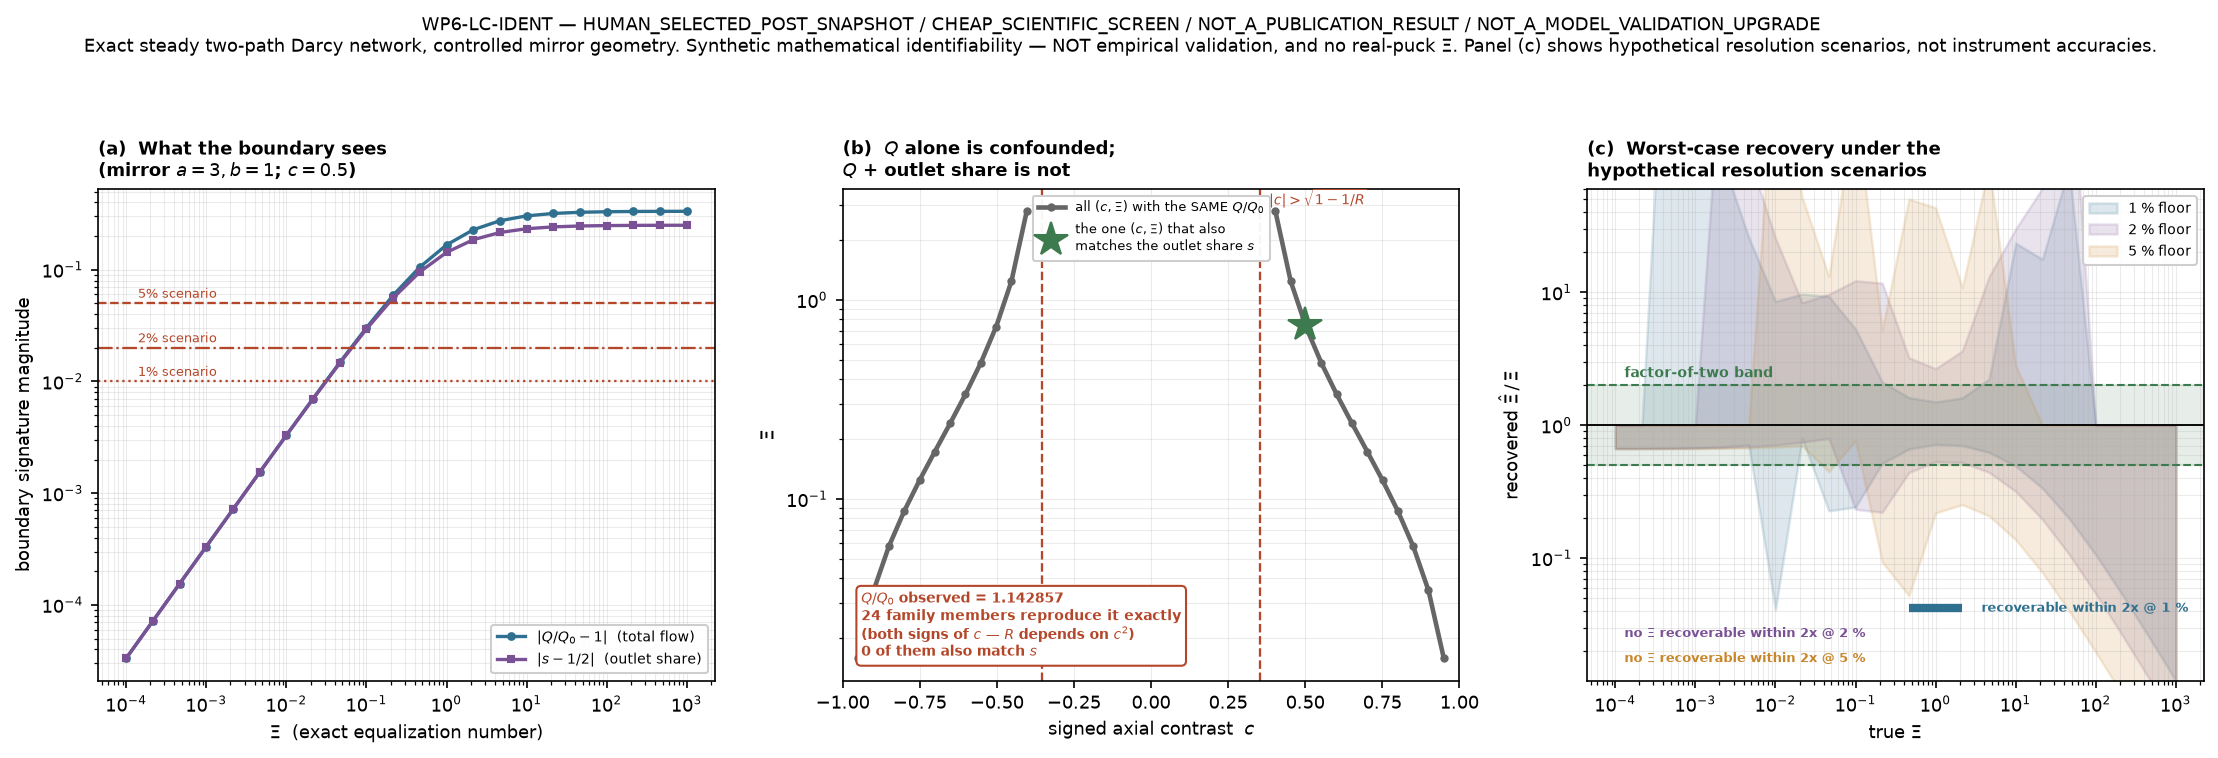
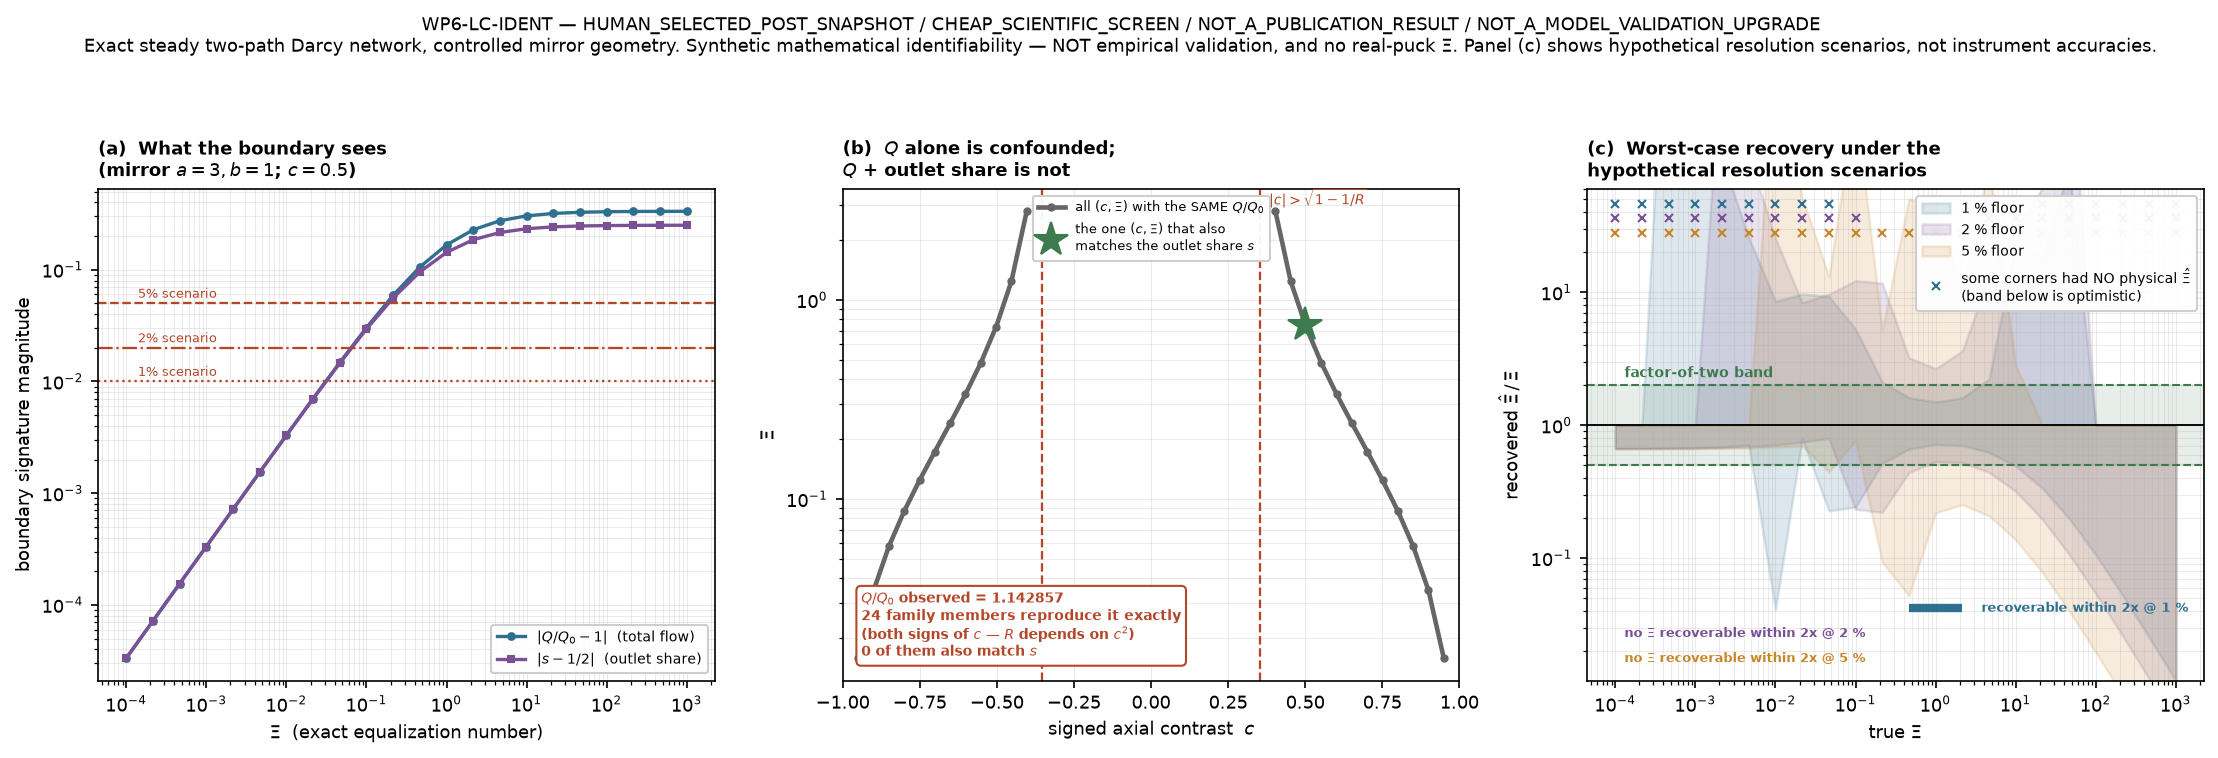
WP6-LC-IDENT: no silent caps in the sensitivity envelope
The reported [Xi_hat_min, Xi_hat_max] interval spans only the scenario corners that
returned a physical inverse. Many return none -- 21 of 27 at Xi = 1e-4 -- so where
corners were dropped the true spread is WORSE than the interval shown. That was
being dropped quietly.

Now counted and surfaced: n_grid_points_with_unrecoverable_corners and
Xi_with_unrecoverable_corners per floor (15 of 22 at 1 %, 18 of 22 at 2 %, 22 of 22
at 5 %), marked with x on figure panel (c), and stated in decision.md and README.md.

The recovered_within_factor_two flag is unaffected and a test asserts why: it requires
all 27 corners to return a finite physical Xi_hat, so it can never be earned by
dropping one. The decision is unchanged: SURVIVE, all seven clauses.

Changed region(s): [[0.8088, 0.2427, 0.9955, 0.4248], [0.7466, 0.2731, 0.7777, 0.3034]]

diff --git a/puckworks/analysis/screen_wp6_lateral_identifiability.py b/puckworks/analysis/screen_wp6_lateral_identifiability.py
@@ -840,12 +840,21 @@ def sensitivity_envelopes():
     for f in PRECISION_FLOORS:
         key = "%dpct" % int(round(f * 100))
         ok = [r["Xi"] for r in rows if r["scenarios"][key]["recovered_within_factor_two"]]
+        drop = [r["Xi"] for r in rows if r["scenarios"][key]["n_nonphysical_or_undefined"] > 0]
         windows[key] = {"floor": f, "n_grid_points_recoverable": len(ok),
                         "Xi_min": min(ok) if ok else None, "Xi_max": max(ok) if ok else None,
                         "contiguous_on_grid": (bool(ok) and
                                                [r["Xi"] for r in rows
                                                 if min(ok) <= r["Xi"] <= max(ok)] ==
-                                               sorted(ok))}
+                                               sorted(ok)),
+                        # NO SILENT CAPS: the reported [Xi_hat_min, Xi_hat_max] interval spans
+                        # only the scenario corners that returned a PHYSICAL inverse. Where
+                        # corners returned none, the true spread is WORSE than the interval
+                        # shown, so both the count and the affected Xi are recorded here and
+                        # marked on the figure rather than dropped.
+                        "n_grid_points_with_unrecoverable_corners": len(drop),
+                        "Xi_with_unrecoverable_corners": drop,
+                        "interval_is_optimistic_where_corners_were_dropped": bool(drop)}
     best = max(rows, key=lambda r: abs(r["ds_dlnXi"]))
     bestR = max(rows, key=lambda r: r["dR_dlnXi"])
     return {
@@ -1159,6 +1168,16 @@ def figure(result=None, path=None):
             ax.fill_between([g[0] for g in good], [g[1] for g in good], [g[2] for g in good],
                             color=col, alpha=0.16, lw=1.2, edgecolor=col,
                             label="%s floor" % key.replace("pct", " %"))
+    # NO SILENT CAPS: mark where the band is built from a SUBSET of the 27 scenario corners
+    # because the rest returned no physical inverse. There the true spread is worse than drawn.
+    for n, (key, col) in enumerate(cols.items()):
+        drop = [x["Xi"] for x in rows
+                if x["scenarios"][key]["n_nonphysical_or_undefined"] > 0]
+        if drop:
+            y = (46.0, 36.0, 28.0)[n]
+            ax.plot(drop, [y] * len(drop), "x", color=col, ms=3.4, mew=1.0,
+                    label=("some corners had NO physical $\\hat{\\Xi}$\n(band below is optimistic)"
+                           if n == 0 else None))
     for n, (key, col) in enumerate(cols.items()):
         w = r["sensitivity_envelopes"]["well_conditioned_windows"][key]
         y = (0.042, 0.027, 0.0175)[n]

diff --git a/tests/test_screen_wp6_lateral_identifiability.py b/tests/test_screen_wp6_lateral_identifiability.py
@@ -390,6 +390,27 @@ def test_resolution_requirement_is_finite_and_tightens_with_the_floor(result):
             >= w["5pct"]["n_grid_points_recoverable"])
 
 
+def test_dropped_scenario_corners_are_counted_not_silently_capped(result):
+    """The [Xi_hat_min, Xi_hat_max] band spans only the corners that returned a physical
+    inverse, so where corners were dropped the true spread is WORSE than reported. That must be
+    recorded, and the factor-of-two flag must not benefit from a dropped corner."""
+    se = result["sensitivity_envelopes"]
+    for key, w in se["well_conditioned_windows"].items():
+        assert "n_grid_points_with_unrecoverable_corners" in w
+        assert w["n_grid_points_with_unrecoverable_corners"] == len(
+            w["Xi_with_unrecoverable_corners"])
+        assert w["interval_is_optimistic_where_corners_were_dropped"] == bool(
+            w["Xi_with_unrecoverable_corners"])
+    # the flag requires ALL 27 corners physical, so it can never be earned by dropping one
+    for r in se["rows"]:
+        for key, sc in r["scenarios"].items():
+            if sc["n_nonphysical_or_undefined"] > 0:
+                assert sc["recovered_within_factor_two"] is False
+            assert sc["n_scenario_points"] == 27
+    # and the effect is real here, not hypothetical
+    assert se["well_conditioned_windows"]["5pct"]["n_grid_points_with_unrecoverable_corners"] > 0
+
+
 def test_frozen_decision_rule_routes_other_inputs_correctly(result):
     """Exercise the rule on inputs OTHER than the live one, so it is a rule and not a label."""
     args = (result["arm_b_forward_and_recovery"], result["arm_c_minimum_observable"],

diff --git a/docs/insights/screens/WP6-LC-IDENT/decision.md b/docs/insights/screens/WP6-LC-IDENT/decision.md
@@ -100,6 +100,14 @@ Sensitivity peaks exactly where the algebra says: `dR/dlnΞ` maximal at `Ξ = 1`
 = 1/12), `|ds/dlnΞ|` maximal at `Ξ = 1 − c² = 0.75` (value `c/8` = 0.0625). Conditioning degrades
 as `1/Ξ` toward zero coupling and saturates for `Ξ ≫ 1`, as predicted.
 
+**No silent caps.** The plotted `[Ξ̂_min, Ξ̂_max]` band spans only the scenario corners that returned
+a *physical* inverse. Many returned none — at Ξ = 1e−4, 21 of the 27 corners — so **where corners
+were dropped the true spread is worse than the band drawn**. Affected grid points: **15 of 22 at
+1 %, 18 of 22 at 2 %, 22 of 22 at 5 %**. They are counted in `result.json`
+(`n_grid_points_with_unrecoverable_corners`, `Xi_with_unrecoverable_corners`) and marked with ✕ on
+the figure rather than dropped quietly. The `recovered_within_factor_two` flag is unaffected: it
+requires **all 27** corners to return a finite physical Ξ̂, so it never benefits from a dropped one.
+
 ## Primary figure
 
 [`figures/primary.png`](figures/primary.png) — (a) both boundary signatures versus Ξ with the

diff --git a/docs/insights/screens/WP6-LC-IDENT/README.md b/docs/insights/screens/WP6-LC-IDENT/README.md
@@ -79,7 +79,9 @@ carrying **no information**, not as a number.
    of `k_lat` or `w`.
 3. **The precision required is demanding.** Under the existing 1 %/2 %/5 % scenario convention, Ξ
    is recoverable within a factor of two only for **Ξ ∈ [0.46, 2.15] at a 1 % floor**, and nowhere
-   at 2 % or 5 %.
+   at 2 % or 5 %. Worse than that band suggests, in fact: at most grid points some scenario corners
+   return **no physical inverse at all**, so the plotted envelope is optimistic wherever it is
+   marked ✕ — counted, not dropped quietly.
 
 ## Exact reproduction
 
